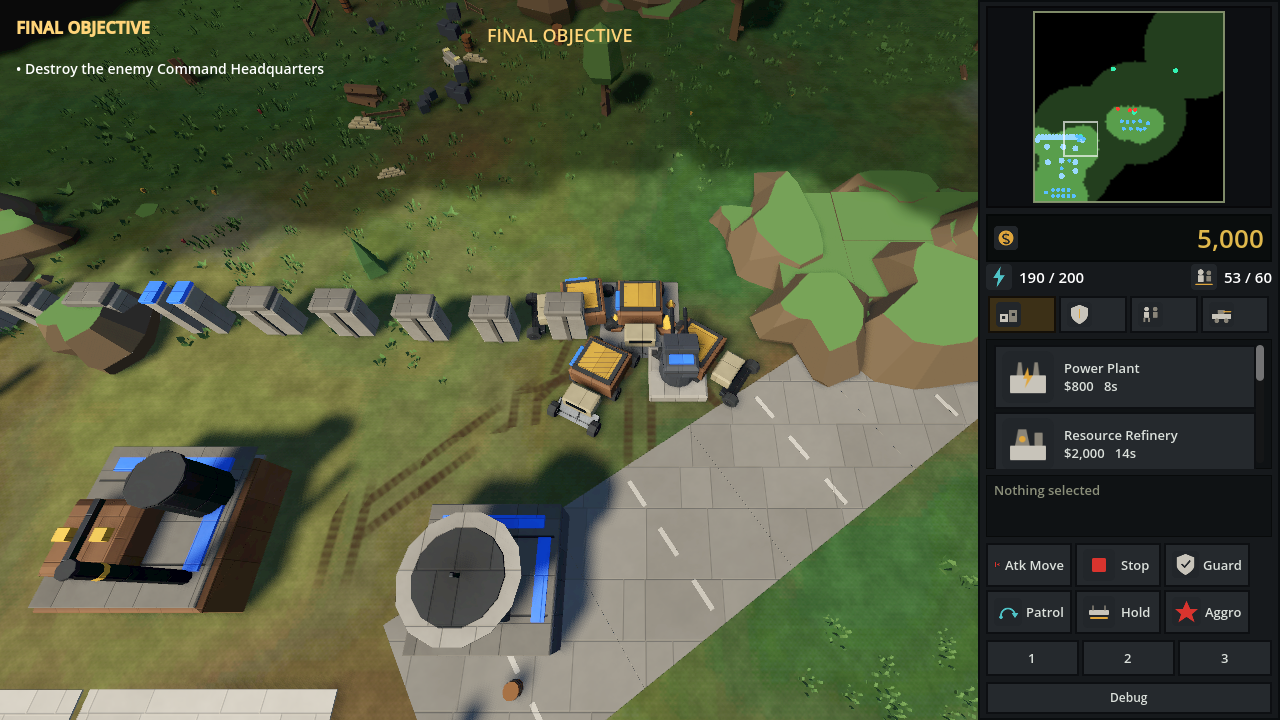
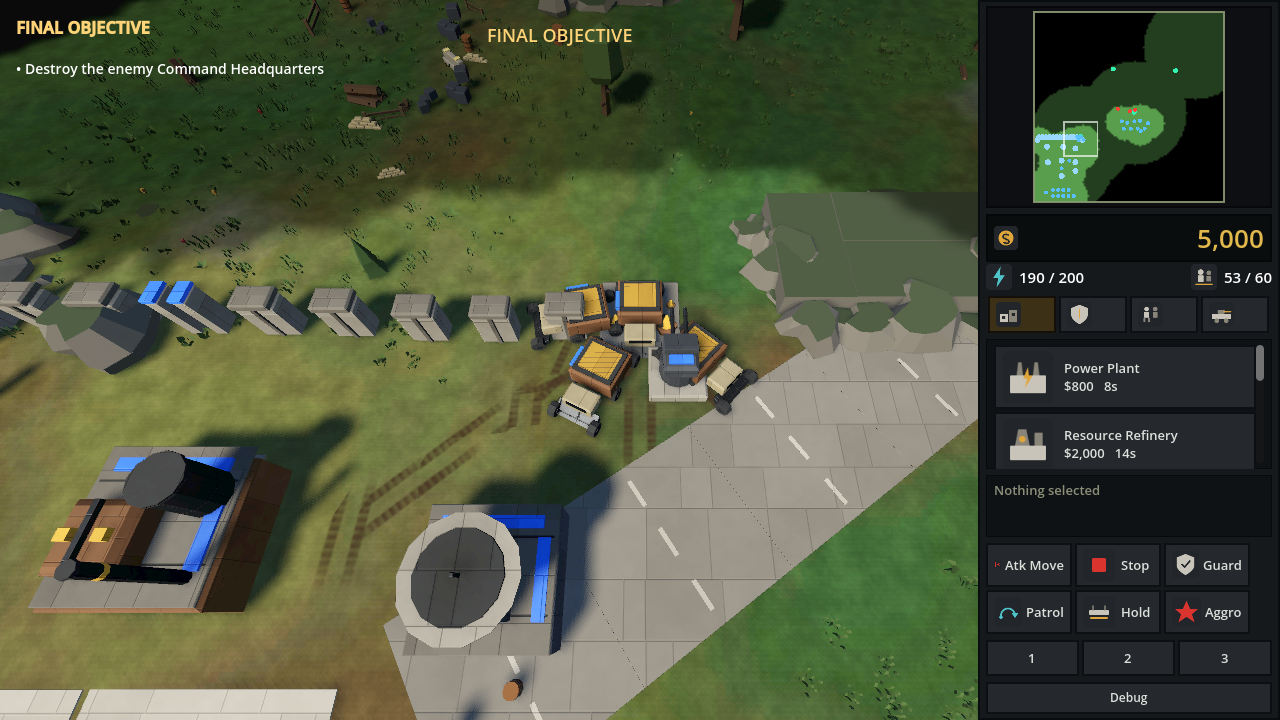
Make the nature and the military one world
Two art languages were sharing the screen: Kenney's nature and our
generated military. Diagnosing it by looking rather than by reasoning
turned up something more specific than "different styles" - the shape
languages were never the problem. Organic trees beside rectilinear
buildings is correct. Three concrete things were wrong.

**Rock was wearing a lawn.** Kenney authors rock and cliff pieces with a
GRASS material capping them, for a stylised world where boulders have
grass on top. Run through the shared palette map that painted every
outcrop a bright green plateau, so a rock formation read as terrain
rather than as the obstacle it is - the worst single clash in frame.
ROCK_PALETTE overrides the cap to lichen and the body to grey-brown
stone.

**Scale compounds.** The pack imports at 4x and dress_blocker multiplied
that by another 1.1-2.3, producing boulders up to nine metres across -
larger than a war factory. More of them, each smaller: a formation is
many rocks, not a few monoliths.

**Tone, not just hue.** The first remap put the pack into this game's
COLOURS and left its saturation and value alone, so bright green canopies
sat against dark olive vehicles and gunmetal structures. Two tonal worlds
on one screen reads as a style clash even when nothing is wrong with the
shapes. The whole nature palette comes down in value and saturation,
which also puts the military silhouettes back in front - the right
hierarchy, because units are what the player has to read.
[…]

diff --git a/docs/ART_DIRECTION.md b/docs/ART_DIRECTION.md
@@ -345,6 +345,27 @@ small table re-skins the whole pack including anything added later. Doing
 it by colour would need an entry per shade and would silently miss any
 that did not match exactly.
 
+**Match the TONE, not just the hue.** The first remap put the pack into
+this game's colours and it still read as a brighter game pasted over this
+one, because saturation and value were untouched: bright green canopies
+against dark olive vehicles and gunmetal structures. Two tonal worlds on
+one screen looks like a style clash even when the shape language is fine.
+Foliage now sits in the same value band as everything else, which also
+puts the military silhouettes back in front — the right hierarchy, since
+units are what the player actually has to read.
+
+**Rock is rock.** Kenney authors rock and cliff pieces with a *grass*
+material capping them, for a stylised world where boulders wear a lawn.
+Run through the shared map that made every outcrop a bright green
+plateau — the worst single clash on the screen, because a rock formation
+then reads as terrain rather than as an obstacle. `ROCK_PALETTE`
+overrides the cap to lichen and the body to grey-brown stone.
+
+**Watch the compound scale.** The pack imports at 4×, so a 1.1–2.3×
+spawn multiplier on top produced boulders up to nine metres across —
+larger than a war factory, dominating every frame they appeared in. A
+formation is many small rocks, not a few monoliths.
+
 That remap is also what stops the props reading as off-the-shelf art
 sitting on our terrain. Flowers are the one exception that keeps its hue:
 they are the only saturated thing out there and are what stops a meadow
